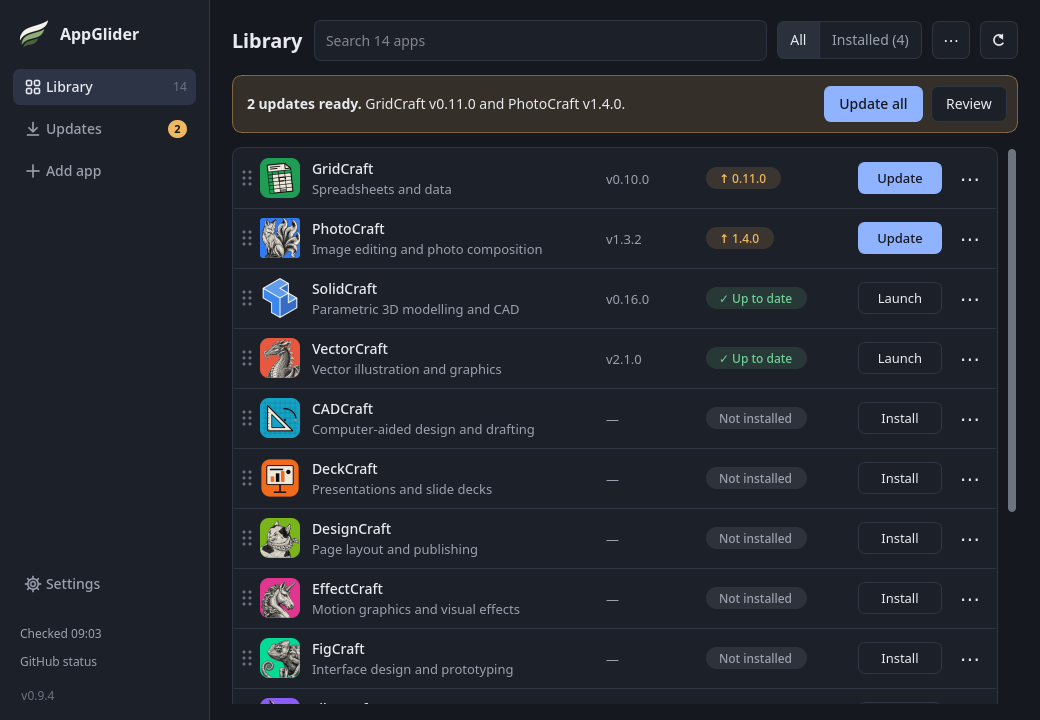
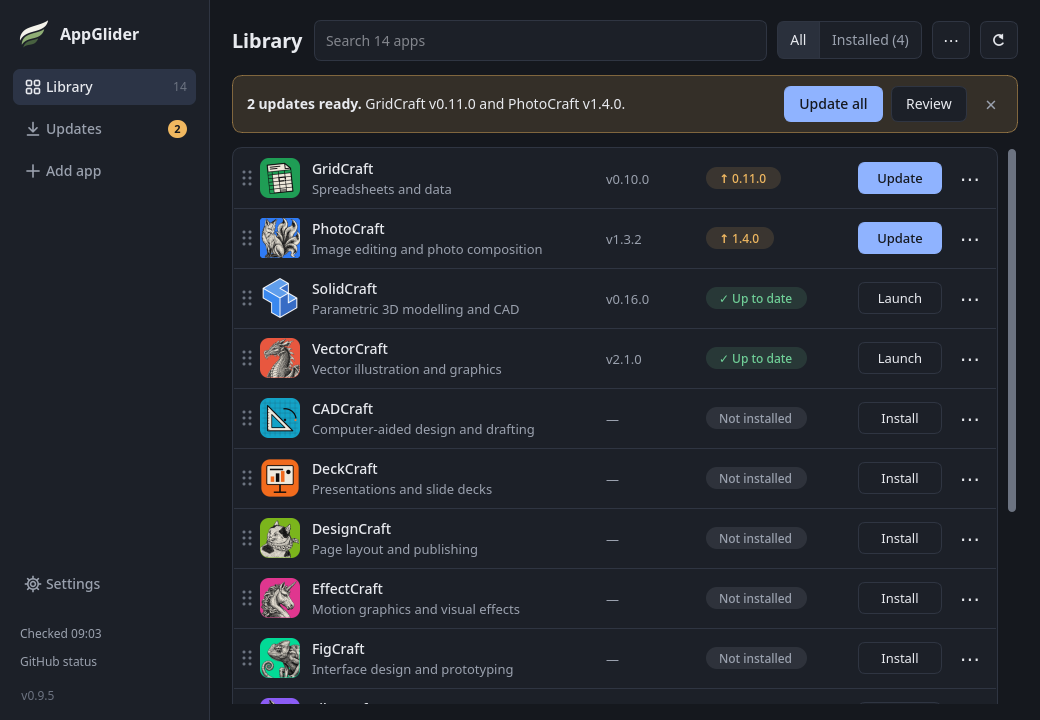
chore: release 0.9.5

Changed region(s): [[0.7385, 0.1222, 0.9538, 0.1833]]

diff --git a/site/index.html b/site/index.html
@@ -47,7 +47,7 @@
 <link rel="stylesheet" href="/styles.css">
 <script src="/site.js" defer></script>
 </head>
-<body data-version="0.9.4">
+<body data-version="0.9.5">
 <a class="skip" href="#main">Skip to content</a>
 
 <header class="nav">

diff --git a/docs/builds.md b/docs/builds.md
@@ -39,12 +39,12 @@ before GitHub can execute it.
 | --- | --- |
 | Pull request or ordinary push | Checks and tests |
 | Manual dispatch | Checks, tests and a test-build artifact |
-| Version tag such as `v0.9.4` | Checks, tests, build and a draft GitHub Release |
+| Version tag such as `v0.9.5` | Checks, tests, build and a draft GitHub Release |
 | Maintainer publishes the draft | AppImage and checksum become release downloads |
 
 To prepare a release:
 
-1. Set the version in `pyproject.toml`, for example `0.9.4`, add it to the `<releases>` list
+1. Set the version in `pyproject.toml`, for example `0.9.5`, add it to the `<releases>` list
    in `packaging/io.github.vyrnexis.AppGlider.appdata.xml`, and update any version numbers
    written in the docs. The interface and HTTP User-Agent read the installed package version.
    Reinstall an editable development checkout after a version change. Commit the changes.
@@ -52,8 +52,8 @@ To prepare a release:
 3. Create and push the matching tag:
 
    ```sh
-   git tag v0.9.4
-   git push origin v0.9.4
+   git tag v0.9.5
+   git push origin v0.9.5
    ```
 
 The tag must exactly match `v` plus the project version; a mismatch stops the build.

diff --git a/docs/design.md b/docs/design.md
@@ -29,7 +29,7 @@ confirmations, file pickers and choices that block an action (such as choosing a
 ┌──────────────┬─────────────────────────────────────────────┐
 │ ◢ AppGlider  │ Page title   [Search……………] [⋯] [⟳]           │
 │              │ ┌ AppGlider banner (new version, accent)  ┐ │
-│              │ │ AppGlider 0.9.4 is available [Update]   │ │
+│              │ │ AppGlider 0.9.5 is available [Update]   │ │
 │              │ └─────────────────────────────────────────┘ │
 │              │ ┌ updates banner (only when updates wait) ┐ │
 │ ▣ Library 12 │ │ 2 updates ready.        [Update all]    │ │

diff --git a/docs/roadmap.md b/docs/roadmap.md
@@ -17,7 +17,11 @@ None of these are approved or scheduled.
 
 Roughly newest first. Where shown, the version is the release that first included the work.
 
-- **Renamed and moved repositories:** when a project renames its repository or moves it to
+- **Offline and quieter banners (0.9.5):** with no network, rows keep what was known before
+  and the sidebar says **GitHub: offline**; checks at login try again once the network is up.
+  Both banners can be closed until something new is out. Release notes open as a short
+  preview that expands in place.
+- **Renamed and moved repositories (0.9.5):** when a project renames its repository or moves it to
   another owner, AppGlider follows GitHub's redirect, remembers the new address and keeps the
   app's install and settings.
 - **Missing files and clearer menus (0.9.4):** an app whose file was moved or deleted outside

diff --git a/docs/usage.md b/docs/usage.md
@@ -411,7 +411,7 @@ build = "Project-x86_64.AppImage" # optional: the exact AppImage file to prefer
 AppGlider also checks for new versions of itself, at the same times it checks your apps,
 and when you press **Check now** under **Settings → About**. It only looks for stable
 versions. When one is out, a banner in your accent colour appears above the list:
-"**AppGlider 0.9.5** is available", with a **What's new ↗** link.
+"**AppGlider 0.9.6** is available", with a **What's new ↗** link.
 
 **Update AppGlider** on the banner:
 

diff --git a/docs/development.md b/docs/development.md
@@ -106,7 +106,7 @@ The version comes from `pyproject.toml`.
 Test the package without FUSE, using a disposable first-run home:
 
 ```sh
-python3 packaging/smoke_test.py dist/AppGlider-0.9.4-x86_64.AppImage
+python3 packaging/smoke_test.py dist/AppGlider-0.9.5-x86_64.AppImage
 ```
 
 The smoke test runs twice: once as an empty first run, and once with two sample repositories

diff --git a/THIRD_PARTY_NOTICES.md b/THIRD_PARTY_NOTICES.md
@@ -26,7 +26,7 @@ including reverse engineering to debug those modifications, under the applicable
 To use replacement libraries, extract the AppImage into a writable directory:
 
 ```sh
-./AppGlider-0.9.4-x86_64.AppImage --appimage-extract
+./AppGlider-0.9.5-x86_64.AppImage --appimage-extract
 ./squashfs-root/AppRun
 ```
 
